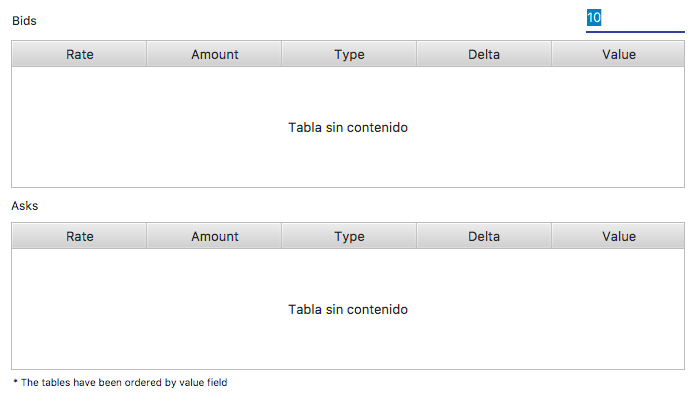
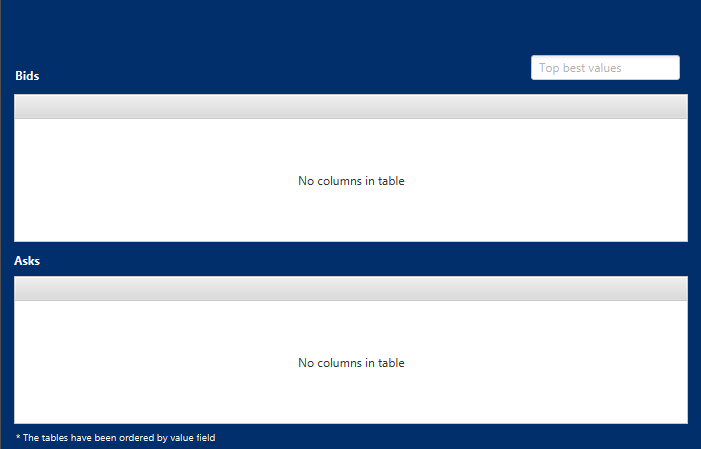
improvement in ui

diff --git a/btc/btc-ui/src/main/java/com/github/haroldjcastillo/btc/ui/OrderController.java b/btc/btc-ui/src/main/java/com/github/haroldjcastillo/btc/ui/OrderController.java
@@ -9,11 +9,11 @@ import com.github.haroldjcastillo.btc.ws.OrderObserver;
 import com.github.haroldjcastillo.business.config.HttpResponse;
 import com.github.haroldjcastillo.business.http.ExecutorService;
 import com.github.haroldjcastillo.rxws.WebSocket;
-import com.jfoenix.controls.JFXTextField;
 
 import javafx.fxml.FXML;
 import javafx.scene.control.TableColumn;
 import javafx.scene.control.TableView;
+import javafx.scene.control.TextField;
 import javafx.scene.control.cell.PropertyValueFactory;
 
 public class OrderController extends AbstractController {
@@ -22,7 +22,7 @@ public class OrderController extends AbstractController {
 	private TickController tickController;
 
 	@FXML
-	private JFXTextField top;
+	private TextField top;
 
 	@FXML
 	private TableView<Book> bidsTableView;
